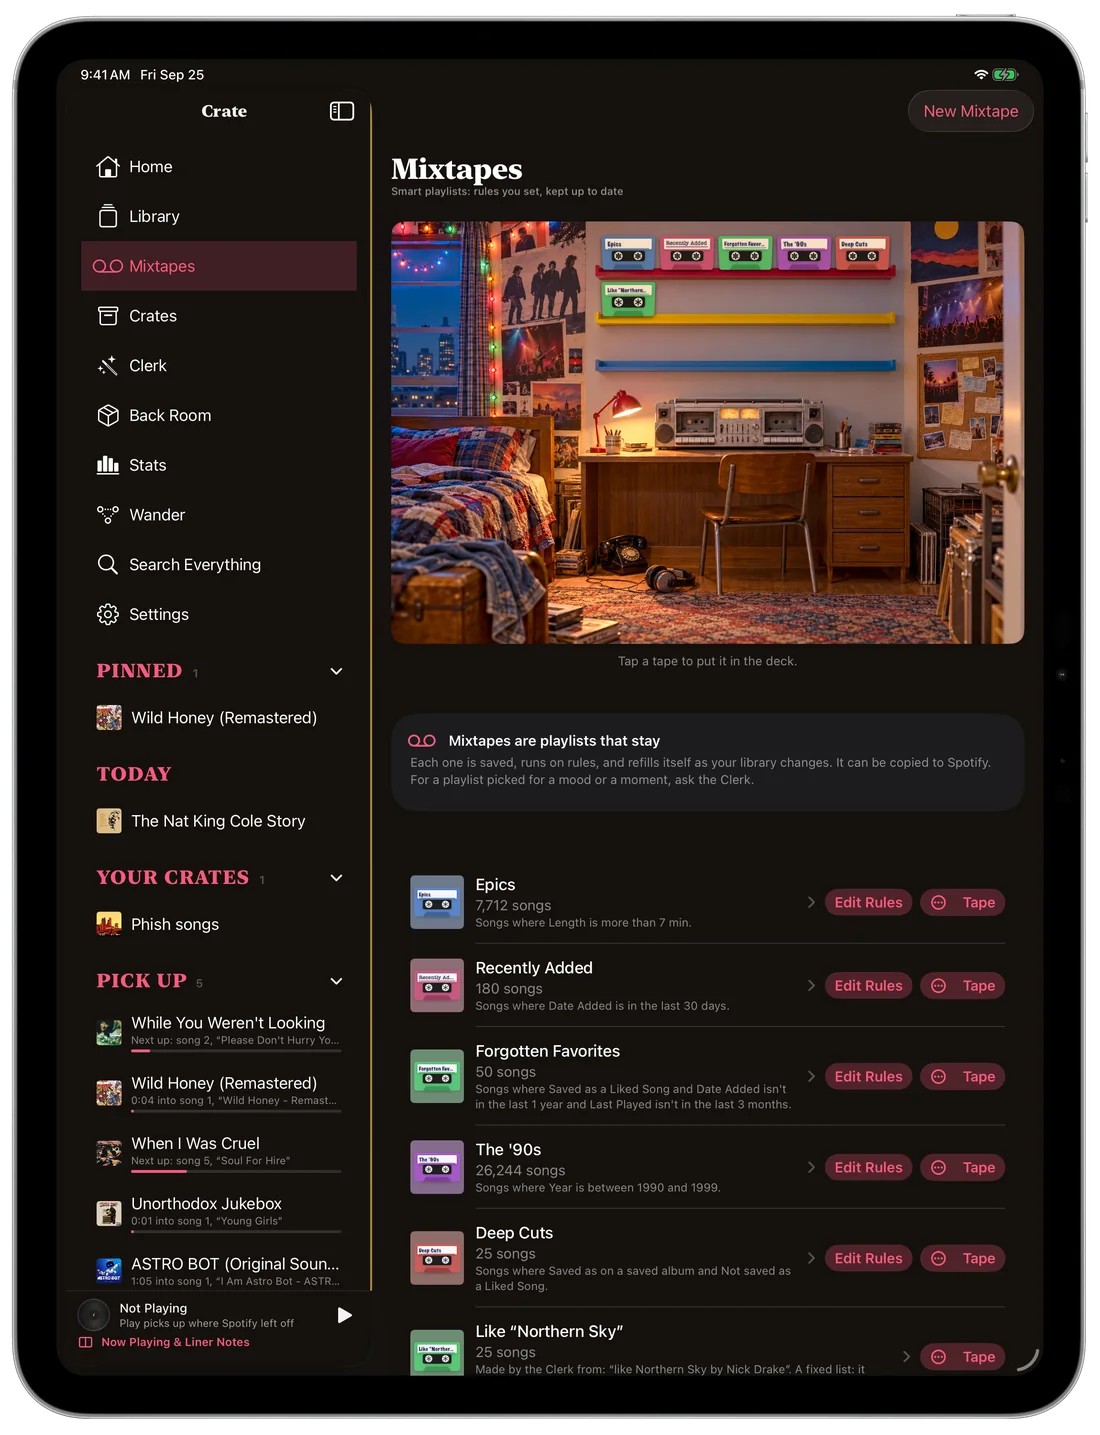
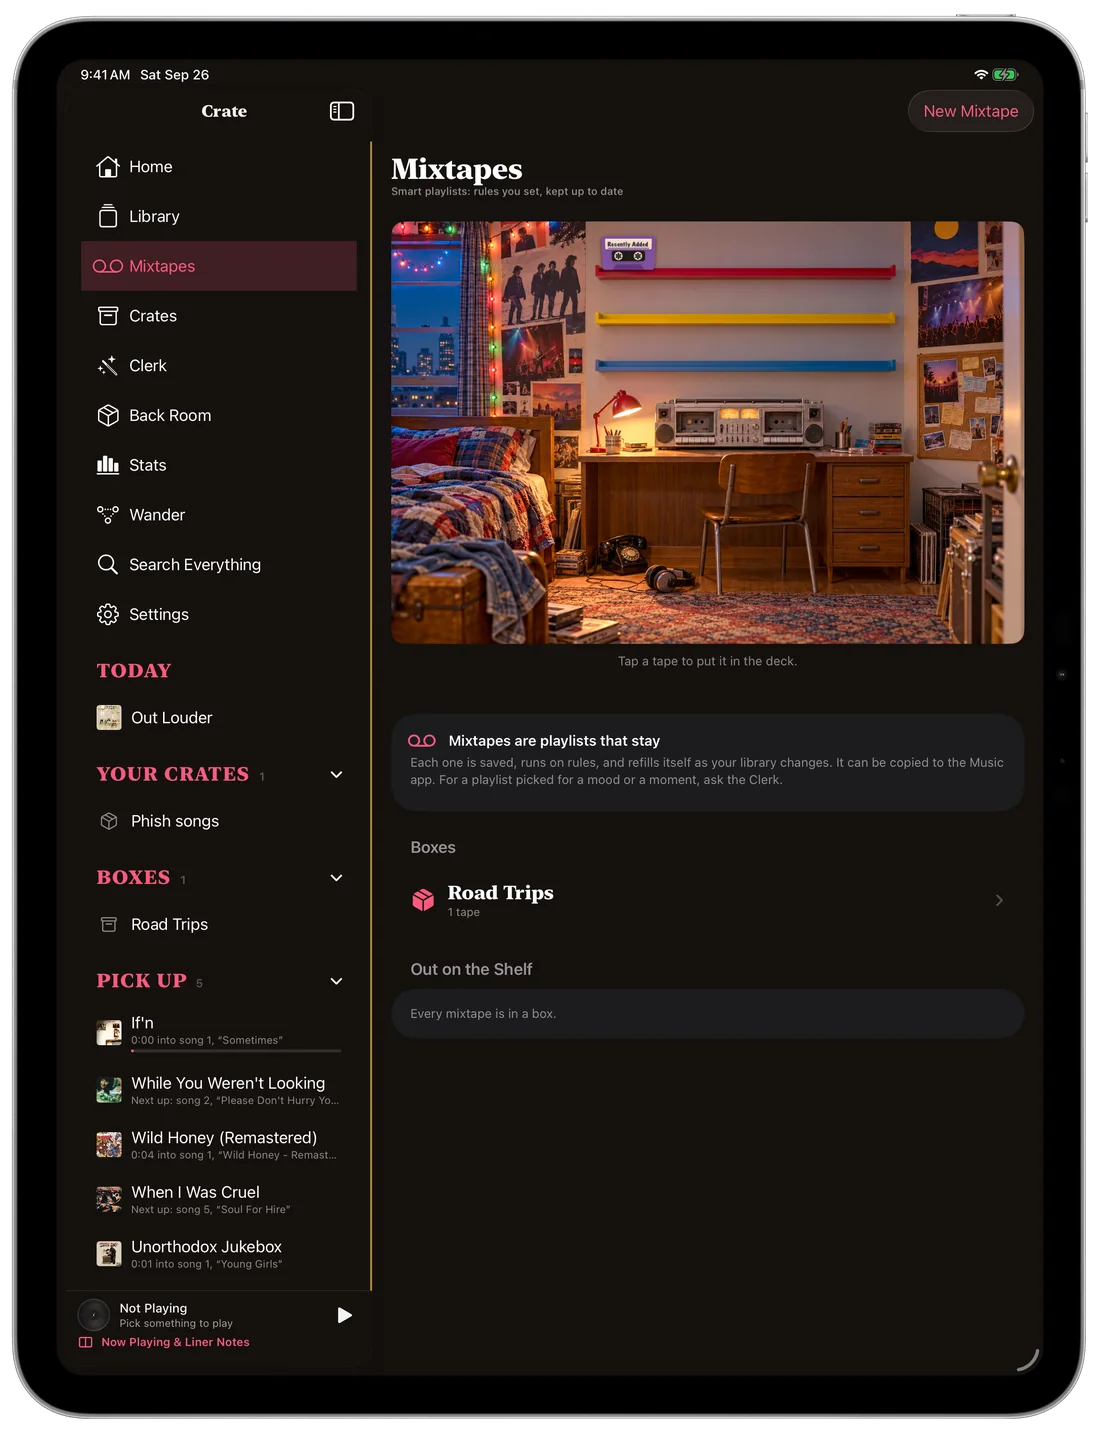
iPad screenshots in Apple Music mode

diff --git a/index.html b/index.html
@@ -43,7 +43,7 @@
       </div>
     </div>
     <div class="hero-art">
-      <picture><source srcset="img/ipad-home-dark.webp" media="(prefers-color-scheme: dark)"><img class="pad" src="img/ipad-home.webp" width="1100" height="1435" alt="Crate on iPad: the Home screen with Album of the Day, a painted record room, and the sidebar of crates and pinned records"></picture>
+      <picture><source srcset="img/ipad-home-dark.webp" media="(prefers-color-scheme: dark)"><img class="pad" src="img/ipad-home.webp" width="1100" height="1435" alt="Crate on iPad: the Home screen with Album of the Day, a painted record room, and the sidebar of crates, boxes and records to pick up"></picture>
       <picture><source srcset="img/iphone-home-dark.webp" media="(prefers-color-scheme: dark)"><img class="phone" src="img/iphone-home.webp" width="560" height="1145" alt="Crate on iPhone: Good morning, with albums to pick up where you left off and today's Album of the Day"></picture>
     </div>
   </section>
@@ -89,7 +89,7 @@
         <p class="soft">Every tape gets a painted cover and a label in your hand. Pick a length from a C46 to a C120 and it splits into Side A and Side B, with a printed insert of liner notes. Crate can also copy it into the Music app as an ordinary playlist, so it follows you to every Apple device and the car.</p>
       </div>
       <div class="devices">
-        <picture><source srcset="img/ipad-mixtapes-dark.webp" media="(prefers-color-scheme: dark)"><img class="pad" src="img/ipad-mixtapes.webp" width="1100" height="1435" alt="The Mixtapes room on iPad: a painted bedroom with a tape deck, a shelf of cassettes and a panel of controls"></picture>
+        <picture><source srcset="img/ipad-mixtapes-dark.webp" media="(prefers-color-scheme: dark)"><img class="pad" src="img/ipad-mixtapes.webp" width="1100" height="1435" alt="The Mixtapes room on iPad: a painted bedroom with a tape deck and a shelf for cassettes, above your boxes of mixtapes"></picture>
         <picture><source srcset="img/iphone-mixtapes-dark.webp" media="(prefers-color-scheme: dark)"><img class="phone" src="img/iphone-mixtapes.webp" width="560" height="1145" alt="Suggested mixtapes on iPhone: Recently Added, Forgotten Favorites, The '90s, Epics and Deep Cuts"></picture>
       </div>
     </div>
